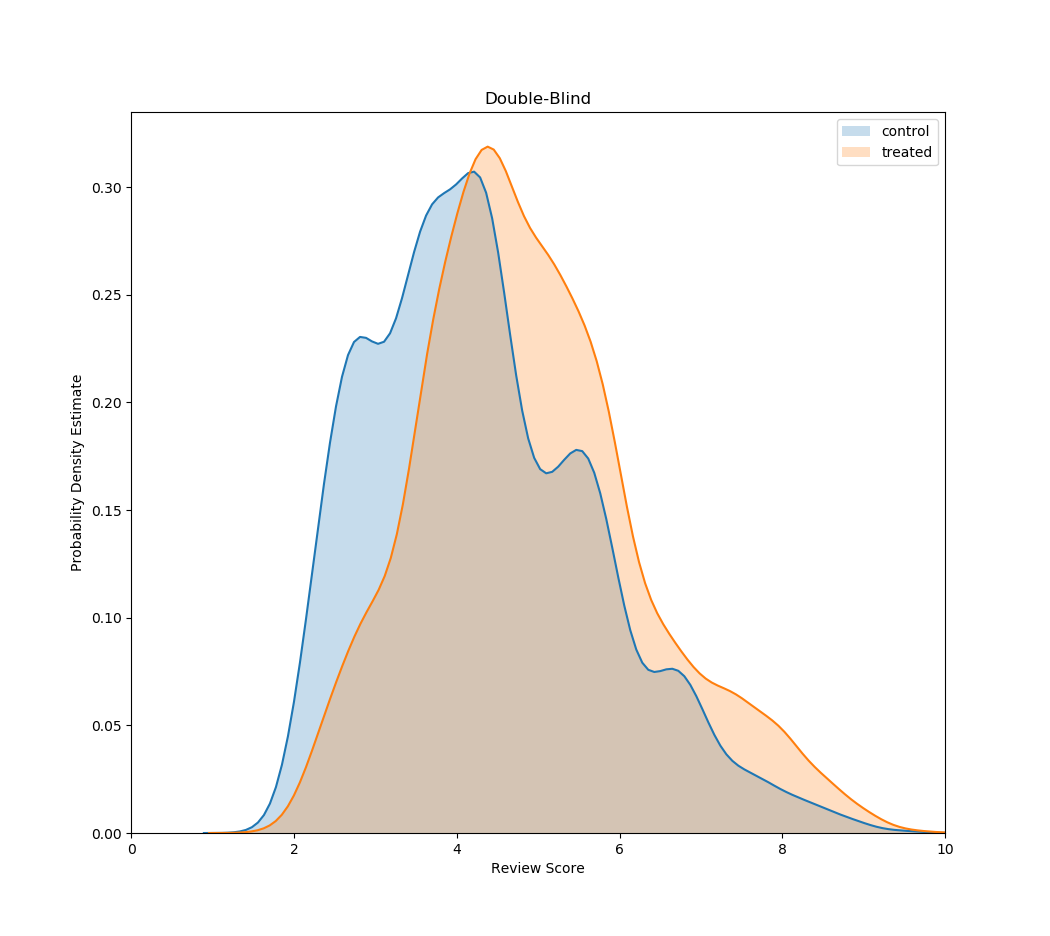
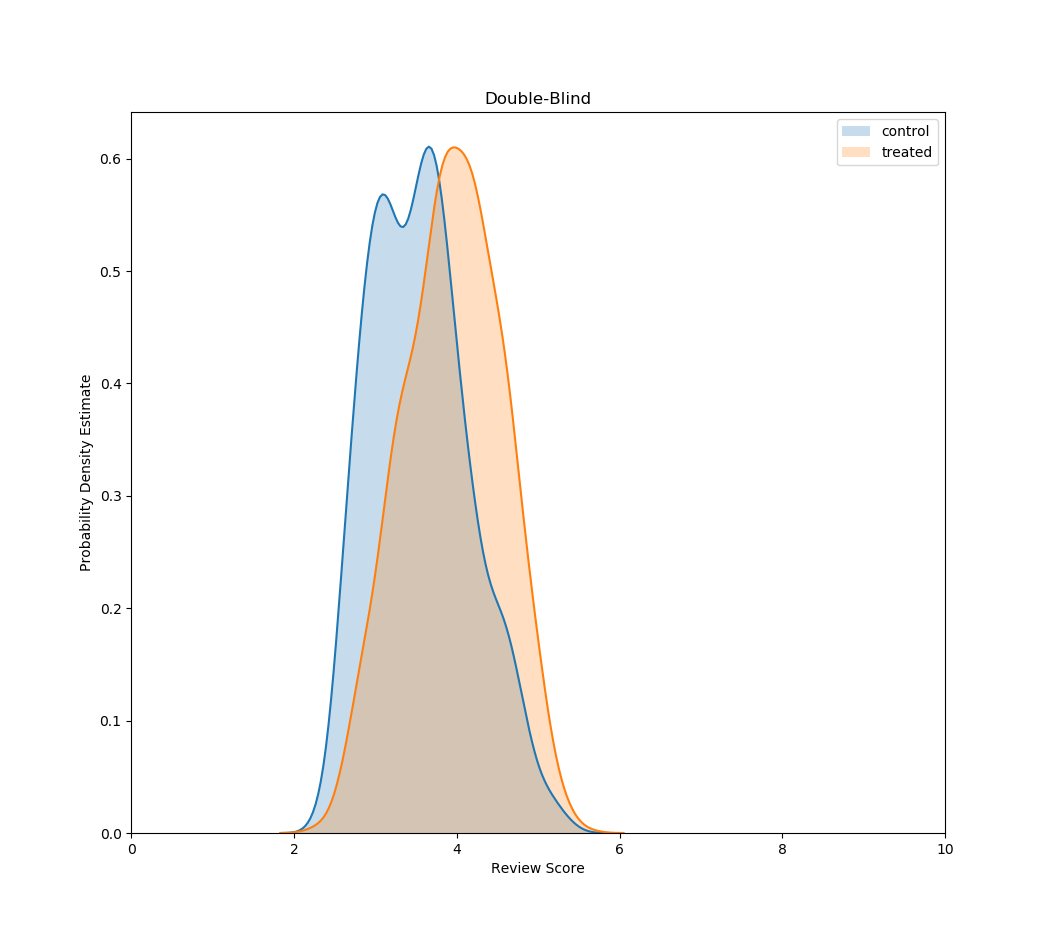
update after a lot of struggle

diff --git a/experiments/estimation.py b/experiments/estimation.py
@@ -19,7 +19,7 @@ from data_gen import *
 from learn_embedding import *
 
 np.random.seed(0) #reproducability
-df = generate_data(10000,200,75000,50)
+df = generate_data(1000,20,7500,50)
 df_inst = df['institutes']
 df_auth = df['authors']
 df_conf = df['conferences']
@@ -713,8 +713,8 @@ plt.legend(['control','treated'])
 plt.title('Double-Blind')
 fig.savefig('Figures/Mean/pdf_double_treated_control_review.png')
 
-m_s_c = RandomForestRegressor()
-m_s_d = RandomForestRegressor()
+m_s_c = RandomForestRegressor(n_estimators=1000)
+m_s_d = RandomForestRegressor(n_estimators=1000)
 
 m_s_c = m_s_c.fit(df_single_control[['venue_impact_factor','mean_citation','embedded_experience']],df_single_control['review'])
 m_s_d = m_s_d.fit(df_single_treated[['venue_impact_factor','mean_citation','embedded_experience']],df_single_treated['review'])
@@ -723,8 +723,8 @@ ate_single = np.mean(tau_single)
 mediante_single = np.median(tau_single)
 truth_single = 1.0
 
-m_d_c = RandomForestRegressor()
-m_d_d = RandomForestRegressor()
+m_d_c = RandomForestRegressor(n_estimators=1000)
+m_d_d = RandomForestRegressor(n_estimators=1000)
 
 m_d_c = m_d_c.fit(df_double_control[['venue_impact_factor','mean_citation','embedded_experience']],df_double_control['review'])
 m_d_d = m_d_d.fit(df_double_treated[['venue_impact_factor','mean_citation','embedded_experience']],df_double_treated['review'])
@@ -816,8 +816,8 @@ plt.legend(['control','treated'])
 plt.title('Double-Blind')
 fig.savefig('Figures/Median/pdf_double_treated_control_review.png')
 
-m_s_c = RandomForestRegressor()
-m_s_d = RandomForestRegressor()
+m_s_c = RandomForestRegressor(n_estimators=1000)
+m_s_d = RandomForestRegressor(n_estimators=1000)
 
 m_s_c = m_s_c.fit(df_single_control[['venue_impact_factor','median_citation','embedded_experience']],df_single_control['review'])
 m_s_d = m_s_d.fit(df_single_treated[['venue_impact_factor','median_citation','embedded_experience']],df_single_treated['review'])
@@ -826,8 +826,8 @@ ate_single = np.mean(tau_single)
 mediante_single = np.median(tau_single)
 truth_single = 1.0
 
-m_d_c = RandomForestRegressor()
-m_d_d = RandomForestRegressor()
+m_d_c = RandomForestRegressor(n_estimators=1000)
+m_d_d = RandomForestRegressor(n_estimators=1000)
 
 m_d_c = m_d_c.fit(df_double_control[['venue_impact_factor','median_citation','embedded_experience']],df_double_control['review'])
 m_d_d = m_d_d.fit(df_double_treated[['venue_impact_factor','median_citation','embedded_experience']],df_double_treated['review'])
@@ -868,9 +868,9 @@ for i in range(n_paper):
     authors = paper['authors']
     prestige_vec = [ df_inst.loc[df_auth.loc[a]['affiliation']]['prestige'] for a in authors ]
     citation_vec = [ df_auth.loc[a]['citation'] for a in authors ]
-    experience_vec = [ df_auth.loc[a]['experience'] for a in authors ]
+    experience_vec = np.array([ df_auth.loc[a]['experience'] for a in authors ])
     median_prestige = np.percentile(prestige_vec,75)
-    median_citation = scipy.special.expit(np.dot( [ 2**(-i) for i in range(len(citation_vec)) ], citation_vec )/500 - 1)
+    median_citation = scipy.special.expit(np.dot( [ np.e**(-i) for i in range(len(citation_vec)) ], np.log(citation_vec) )/5 - 1)
     d_paperi = {}
     d_paperi['quality'] = paper['quality']
     d_paperi['venue_area'] = df_conf.loc[paper['venue']]['area']
@@ -879,7 +879,7 @@ for i in range(n_paper):
     d_paperi['review'] = paper['review']
     d_paperi['quantile_75_prestige'] = median_prestige
     d_paperi['expit_citation'] = median_citation
-    d_paperi['embedded_experience'] = np.max(experience_vec)
+    d_paperi['embedded_experience'] = np.mean(1/(experience_vec+1))
     df_unit_table[i] = d_paperi
 
 df_unit_table = pd.DataFrame.from_dict(df_unit_table,orient='index')
@@ -919,8 +919,8 @@ plt.legend(['control','treated'])
 plt.title('Double-Blind')
 fig.savefig('Figures/Complex_1/pdf_double_treated_control_review.png')
 
-m_s_c = RandomForestRegressor()
-m_s_d = RandomForestRegressor()
+m_s_c = RandomForestRegressor(n_estimators=1000)
+m_s_d = RandomForestRegressor(n_estimators=1000)
 
 m_s_c = m_s_c.fit(df_single_control[['venue_impact_factor','expit_citation','embedded_experience']],df_single_control['review'])
 m_s_d = m_s_d.fit(df_single_treated[['venue_impact_factor','expit_citation','embedded_experience']],df_single_treated['review'])
@@ -929,8 +929,8 @@ ate_single = np.mean(tau_single)
 mediante_single = np.median(tau_single)
 truth_single = 1.0
 
-m_d_c = RandomForestRegressor()
-m_d_d = RandomForestRegressor()
+m_d_c = RandomForestRegressor(n_estimators=1000)
+m_d_d = RandomForestRegressor(n_estimators=1000)
 
 m_d_c = m_d_c.fit(df_double_control[['venue_impact_factor','expit_citation','embedded_experience']],df_double_control['review'])
 m_d_d = m_d_d.fit(df_double_treated[['venue_impact_factor','expit_citation','embedded_experience']],df_double_treated['review'])
@@ -988,7 +988,7 @@ embedding_cov = []
 y = np.array(df_unit_table_1['review'])
 for cov in embedding_needed_covariates:
     X_cov = df_unit_table_1[cov]
-    output = learn_moment_summary(X_cov,y,learn_type='regression',max_moment=10)
+    output = learn_moment_summary(X_cov,y,learn_type='regression',max_moment=7)
     embedding_cov.append( lambda x: output[2].predict( np.array([[np.mean(x)]+[stats.moment(x,moment=i) for i in range(2,output[1])]]) )[0] )
     
 
@@ -1051,8 +1051,8 @@ plt.legend(['control','treated'])
 plt.title('Double-Blind')
 fig.savefig('Figures/Learn_MomSum_RF/pdf_double_treated_control_review.png')
 
-m_s_c = RandomForestRegressor()
-m_s_d = RandomForestRegressor()
+m_s_c = RandomForestRegressor(n_estimators=1000)
+m_s_d = RandomForestRegressor(n_estimators=1000)
 
 m_s_c = m_s_c.fit(df_single_control[['venue_impact_factor','embedded_citation']],df_single_control['review'])
 m_s_d = m_s_d.fit(df_single_treated[['venue_impact_factor','embedded_citation']],df_single_treated['review'])
@@ -1061,8 +1061,8 @@ ate_single = np.mean(tau_single)
 mediante_single = np.median(tau_single)
 truth_single = 1.0
 
-m_d_c = RandomForestRegressor()
-m_d_d = RandomForestRegressor()
+m_d_c = RandomForestRegressor(n_estimators=1000)
+m_d_d = RandomForestRegressor(n_estimators=1000)
 
 m_d_c = m_d_c.fit(df_double_control[['venue_impact_factor','embedded_citation']],df_double_control['review'])
 m_d_d = m_d_d.fit(df_double_treated[['venue_impact_factor','embedded_citation']],df_double_treated['review'])
@@ -1121,7 +1121,7 @@ embedding_cov = []
 y = np.array(df_unit_table_1['review'])
 for cov in embedding_needed_covariates:
     X_cov = df_unit_table_1[cov]
-    output = learn_moment_summary(X_cov,y,learn_type='regression',max_moment=10)
+    output = learn_moment_summary(X_cov,y,learn_type='regression',max_moment=7)
     embedding_cov.append( lambda x: [np.mean(x)]+[stats.moment(x,moment=i) for i in range(2,output[1])] ) 
     
 
@@ -1187,8 +1187,8 @@ plt.legend(['control','treated'])
 plt.title('Double-Blind')
 fig.savefig('Figures/Learn_MomSum/pdf_double_treated_control_review.png')
 
-m_s_c = RandomForestRegressor()
-m_s_d = RandomForestRegressor()
+m_s_c = RandomForestRegressor(n_estimators=1000)
+m_s_d = RandomForestRegressor(n_estimators=1000)
 
 m_s_c = m_s_c.fit(df_single_control[['venue_impact_factor']+['embedded_citation_'+str(k) for k in range(0,len(embedded_citation))]+['embedded_experience_'+str(k) for k in range(0,len(embedded_experience))]],df_single_control['review'])
 m_s_d = m_s_d.fit(df_single_treated[['venue_impact_factor']+['embedded_citation_%d'%(k) for k in range(0,len(embedded_citation))]+['embedded_experience_'+str(k) for k in range(0,len(embedded_experience))]],df_single_treated['review'])
@@ -1197,8 +1197,8 @@ ate_single = np.mean(tau_single)
 mediante_single = np.median(tau_single)
 truth_single = 1.0
 
-m_d_c = RandomForestRegressor()
-m_d_d = RandomForestRegressor()
+m_d_c = RandomForestRegressor(n_estimators=1000)
+m_d_d = RandomForestRegressor(n_estimators=1000)
 
 m_d_c = m_d_c.fit(df_double_control[['venue_impact_factor']+['embedded_citation_%d'%(k) for k in range(0,len(embedded_citation))]+['embedded_experience_'+str(k) for k in range(0,len(embedded_experience))] ],df_double_control['review'])
 m_d_d = m_d_d.fit(df_double_treated[['venue_impact_factor']+['embedded_citation_%d'%(k) for k in range(0,len(embedded_citation))]+['embedded_experience_'+str(k) for k in range(0,len(embedded_experience))] ],df_double_treated['review'])
@@ -1237,7 +1237,7 @@ plt.violinplot(df_tau['complex_single'],positions=[3],showmeans=True,showextrema
 plt.violinplot(df_tau['learn_comsum_rf_single'],positions=[4],showmeans=True,showextrema=False)
 plt.violinplot(df_tau['learn_comsum_single'],positions=[5],showmeans=True,showextrema=False)
 
-plt.ylim((-0.5,2))
+#plt.ylim((-0.5,2))
 plt.xlabel('CATEs')
 plt.xticks(list(np.arange(1,6)),['mean_single','median_single','complex_single','learn_comsum_rf_single','learn_comsum_single'], rotation=75)
 plt.legend(['True TE Single-Blind'])
@@ -1253,7 +1253,7 @@ plt.violinplot(df_tau['complex_double'],positions=[3],showmeans=True,showextrema
 plt.violinplot(df_tau['learn_comsum_rf_double'],positions=[4],showmeans=True,showextrema=False)
 plt.violinplot(df_tau['learn_comsum_double'],positions=[5],showmeans=True,showextrema=False)
 
-plt.ylim((-2,1))
+#plt.ylim((-2,1))
 plt.xlabel('CATEs')
 plt.xticks(list(np.arange(1,6)),['mean_double','median_double','complex_double','learn_comsum_rf_double','learn_comsum_double'], rotation=75)
 plt.legend(['True TE Double-Blind'])

diff --git a/experiments/learn_embedding.py b/experiments/learn_embedding.py
@@ -19,14 +19,20 @@ from data_gen import *
 
 def eval_outcome_estimation(X,y,learn_type='regression'):
     if learn_type=='regression':
-        model = RFR(n_estimators=100)
-        scores = cross_validate(model,X,y,cv=5, return_estimator=True)
-        return np.mean(scores['test_score']), scores['estimator'][np.argmax(scores['test_score'])]
+        try:
+            model = RFR(n_estimators=500)
+            scores = cross_validate(model,X,y,cv=5, return_estimator=True)
+            return np.mean(scores['test_score']), scores['estimator'][np.argmax(scores['test_score'])]
+        except:
+            return 0, None
     else:
-        model = RFC(n_estimators=100)
-        scores = cross_validate(model,X,y,cv=5,  return_estimator=True)
-        return np.mean(scores['test_score']), scores['estimator'][np.argmax(scores['test_score'])]
-    
+        try:
+            model = RFC(n_estimators=500)
+            scores = cross_validate(model,X,y,cv=5, return_estimator=True)
+            return np.mean(scores['test_score']), scores['estimator'][np.argmax(scores['test_score'])]
+        except:
+            return 0, None
+        
 def moment_summarization(X,level=1):
     x = []
     for row in X:
@@ -37,7 +43,7 @@ def moment_summarization(X,level=1):
     return np.array(x)
 
 def learn_moment_summary(X,y,learn_type='regression',max_moment=10):
-    scores = [eval_outcome_estimation(moment_summarization(X,level=i),y,learn_type)[0] for i in range(1,max_moment)]
+    scores = np.nan_to_num(np.array([eval_outcome_estimation(moment_summarization(X,level=i),y,learn_type)[0] for i in range(1,max_moment)]))
     best_moment = np.argmax(scores)+1
     return scores, best_moment, eval_outcome_estimation(moment_summarization(X,level=best_moment),y,learn_type)[1]
 #

diff --git a/experiments/data_gen.py b/experiments/data_gen.py
@@ -88,7 +88,7 @@ def gen_paper(n_paper,df_conf,df_auth,df_inst):
         quality = scipy.special.expit(np.sum([ (np.e**(-2*i))*np.log(30*(df_auth.loc[authors[i]]['citation']/(df_auth.loc[authors[i]]['experience']+5))+1) for i in range(num_auth) ])/5 - 1)#*((np.random.normal(20,5) + stats.mode([ df_auth.loc[authors[i]]['experience'] for i in range(num_auth) ])[0][0]**2)/500)#+ 0.5(np.mode())
         paper_conf = np.random.randint(0,len(df_conf)) #randomly apply to any conference, could be made better
         collapsed_prestige = np.percentile( np.array([ df_inst.loc[df_auth.loc[a]['affiliation']]['prestige'] for a in authors] ), 75 )#collective prestige of all authors
-        review_score = max( 0, min( 10, 3+df_conf.loc[paper_conf]['single-blind']*(collapsed_prestige>10) + ( 10*np.random.normal(np.log(quality+1) - np.log(df_conf.loc[paper_conf]['impact_factor'])/10,0.1*quality))/1.2)) #max(0,min(20,(df_conf.loc[paper_conf]['single-blind'])*(median_prestige>10) + (80*quality)/(df_conf.loc[paper_conf]['impact_factor']))) #if it is single-blind then the treatment effect of median-prestige=high is 1.
+        review_score = max( 0, min( 10, 3+df_conf.loc[paper_conf]['single-blind']*(collapsed_prestige>10) + ( 10*np.random.normal(np.log(quality+1) - np.log(df_conf.loc[paper_conf]['impact_factor'])/10,0.1*quality))/2)) #max(0,min(20,(df_conf.loc[paper_conf]['single-blind'])*(median_prestige>10) + (80*quality)/(df_conf.loc[paper_conf]['impact_factor']))) #if it is single-blind then the treatment effect of median-prestige=high is 1.
         return [authors,quality,paper_conf,review_score]
     d_paper = {}
     for i in range(0,n_paper):
